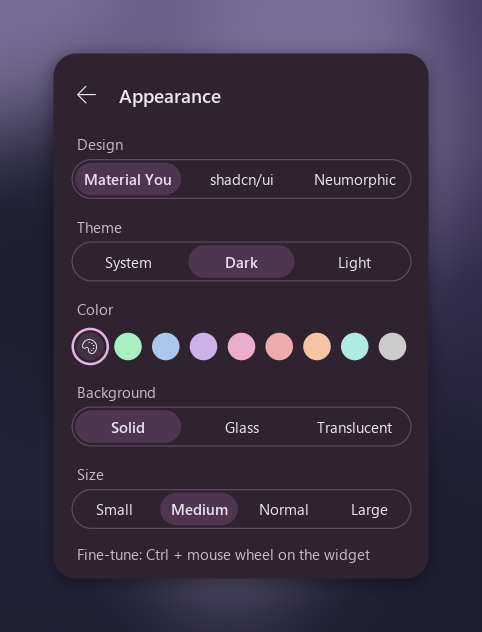
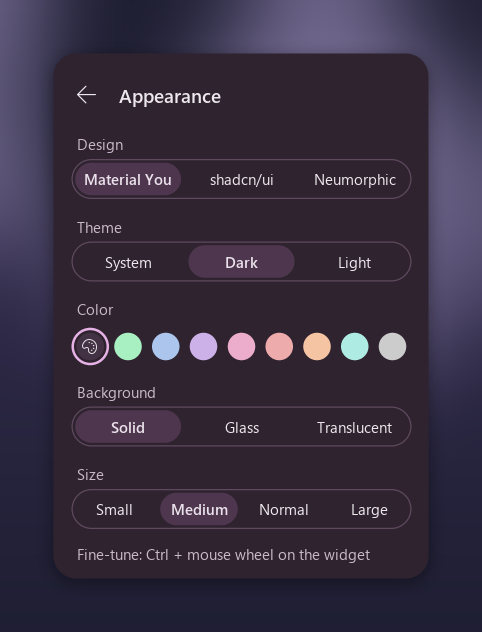
README: download section, centered header, larger screenshots; social preview image

diff --git a/tools/screenshots.py b/tools/screenshots.py
@@ -139,24 +139,29 @@ def backdrop(w, h, c1, c2):
     return bg.filter(ImageFilter.GaussianBlur(40)).convert("RGBA")
 
 
-def sheet(name, imgs, c1, c2, pad=36, gap=28, brand=False):
+def sheet(name, imgs, c1, c2, pad=36, gap=28, brand=False, size=None):
+    """size: final (w, h); the layout is centered on a wider canvas of that aspect, then scaled."""
     head = 96 if brand else 0  # app icon + name above the widgets
-    w = sum(i.width for i in imgs) + gap * (len(imgs) - 1) + 2 * pad
+    cw = sum(i.width for i in imgs) + gap * (len(imgs) - 1) + 2 * pad
     h = max(i.height for i in imgs) + 2 * pad + head
+    w = max(cw, round(h * size[0] / size[1])) if size else cw
     out = backdrop(w, h, c1, c2)
+    px = pad + (w - cw) // 2  # x start of the centered layout
     if brand:
         icon = Image.open(os.path.join(ROOT, "icon.png")).convert("RGBA").resize((80, 80), Image.LANCZOS)
-        out.alpha_composite(icon, (pad - 8, pad - 4))
+        out.alpha_composite(icon, (px - 8, pad - 4))
         font = ImageFont.truetype(os.path.join(ROOT, "fonts", "Geist-SemiBold.ttf"), 40)
         sub = ImageFont.truetype(os.path.join(ROOT, "fonts", "Geist-Regular.ttf"), 19)
         d = ImageDraw.Draw(out)
-        d.text((pad + 84, pad + 16), "Coverglow", font=font, fill=(255, 255, 255), anchor="lm")
-        d.text((pad + 86, pad + 54), "A desktop widget for Spotify on Windows", font=sub,
+        d.text((px + 84, pad + 16), "Coverglow", font=font, fill=(255, 255, 255), anchor="lm")
+        d.text((px + 86, pad + 54), "A desktop widget for Spotify on Windows", font=sub,
                fill=(255, 255, 255, 200), anchor="lm")
-    x = pad
+    x = px
     for i in imgs:
         out.alpha_composite(i, (x, pad + head))
         x += i.width + gap
+    if size:
+        out = out.resize(size, Image.LANCZOS)
     out.convert("RGB").save(os.path.join(OUT, name), optimize=True)
 
 
@@ -181,6 +186,9 @@ sheet("themes.png", [render("m", track="forest", show_queue=False),
 sheet("mini.png", [column([render("m1", track="sunset", mini=True),
                            render("m2", ui="shadcn", theme="light", track="ocean", mini=True),
                            render("m3", ui="neu", track="violet", mini=True)])], (60, 60, 80), (120, 90, 110))
+# 1280x640 social preview (GitHub: Settings → Social preview)
+sheet("social.png", [shots["q"], shots["l"], shots["s"]], (40, 40, 60), (110, 70, 90), brand=True,
+      size=(1280, 640))
 render("menu_bg", track="violet", show_queue=False)
 sheet("menu.png", [menu_shot()], (60, 50, 90), (30, 30, 50))
 a.root.destroy()

diff --git a/tools/make_icon.py b/tools/make_icon.py
@@ -3,7 +3,7 @@ import math
 import os
 from PIL import Image, ImageChops, ImageDraw, ImageFilter
 
-HERE = os.path.dirname(os.path.abspath(__file__))
+HERE = os.path.dirname(os.path.dirname(os.path.abspath(__file__)))  # repo root
 N = 1024
 C1, C2, C3 = (255, 170, 80), (240, 80, 140), (130, 70, 230)  # amber → pink → violet
 

diff --git a/README.md b/README.md
@@ -1,12 +1,23 @@
-<img src="icon.png" width="96" alt="Coverglow icon">
+<p align="center">
+  <img src="icon.png" width="112" alt="Coverglow icon">
+</p>
 
-# Coverglow
+<h1 align="center">Coverglow</h1>
 
-A desktop widget for Spotify on Windows. It sits on the desktop below your windows, colors itself from the current album cover (Material You), and shows the queue, synced lyrics and your listening stats.
+<p align="center">
+  A desktop widget for Spotify on Windows.<br>
+  It sits on the desktop below your windows, colors itself from the current album cover (Material You),<br>
+  and shows the queue, synced lyrics and your listening stats.
+</p>
 
-![Material You widget with the queue, lyrics and stats tabs](docs/hero.png)
+<p align="center">
+  <a href="https://github.com/ryocs15/coverglow/releases/latest"><b>⬇ Download Coverglow.exe</b></a>
+  &nbsp;·&nbsp; Windows 10 / 11 &nbsp;·&nbsp; no install needed
+</p>
 
-> Screenshots use made-up tracks and generated covers. `tools/screenshots.py` renders them.
+![Coverglow widgets showing the queue, lyrics and stats tabs](docs/hero.png)
+
+<sub>Screenshots use made-up tracks and generated covers (`tools/screenshots.py`).</sub>
 
 ## Features
 
@@ -29,9 +40,27 @@ A desktop widget for Spotify on Windows. It sits on the desktop below your windo
 - **Share card:** copies an image of the current track to the clipboard.
 - **Two UI languages:** English and Turkish, picked from the Windows display language.
 
-| Design languages | Mini mode | Settings menu |
-|---|---|---|
-| ![Material, shadcn and Neumorphic themes](docs/themes.png) | ![Mini mode](docs/mini.png) | ![Appearance menu](docs/menu.png) |
+### Design languages
+
+Material You, shadcn/ui, and Neumorphic in light and dark:
+
+![Material You, shadcn/ui and Neumorphic widgets](docs/themes.png)
+
+### Mini mode and settings
+
+<p>
+  <img src="docs/mini.png" height="300" alt="Mini mode in three designs">
+  &nbsp;
+  <img src="docs/menu.png" height="300" alt="Appearance settings menu">
+</p>
+
+## Download
+
+1. Get `Coverglow.exe` from the [latest release](https://github.com/ryocs15/coverglow/releases/latest).
+2. Put it in its own folder. Settings, stats and the log are saved next to it.
+3. Run it. The exe is unsigned, so SmartScreen may warn the first time: choose *More info → Run anyway*.
+
+To quit, right-click the widget and pick **Close** from the menu.
 
 ## Requirements
 
